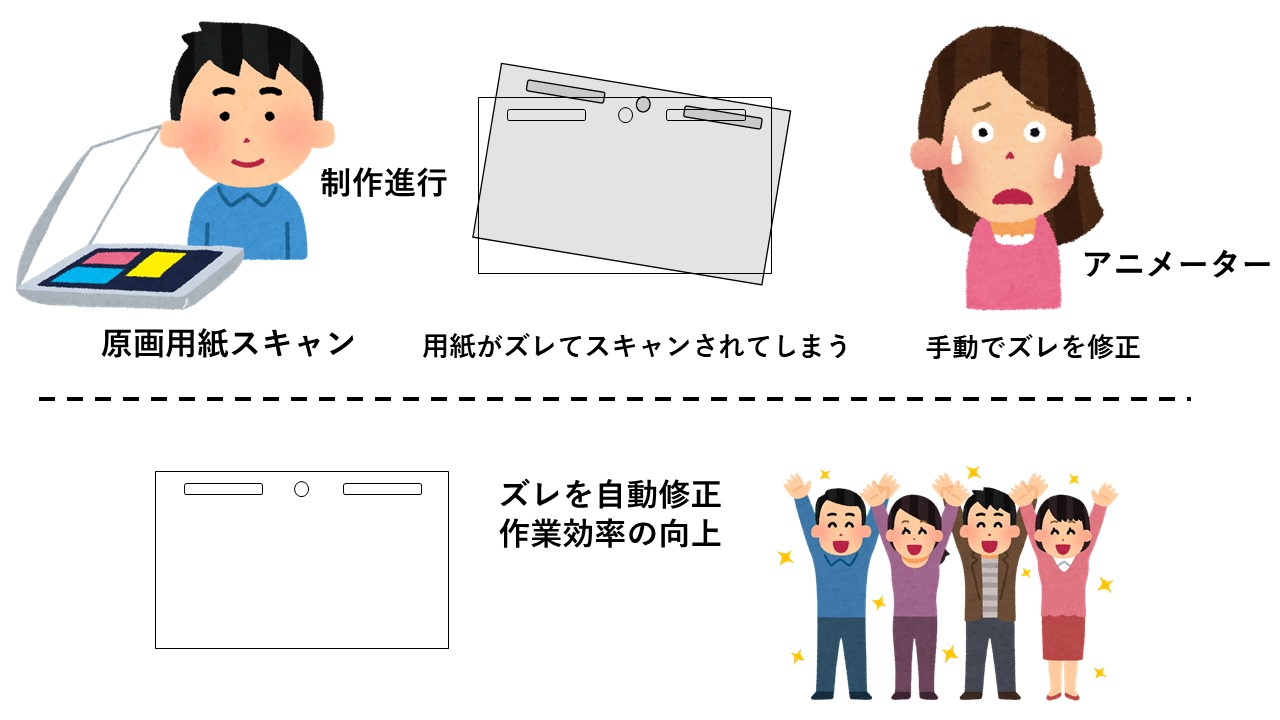
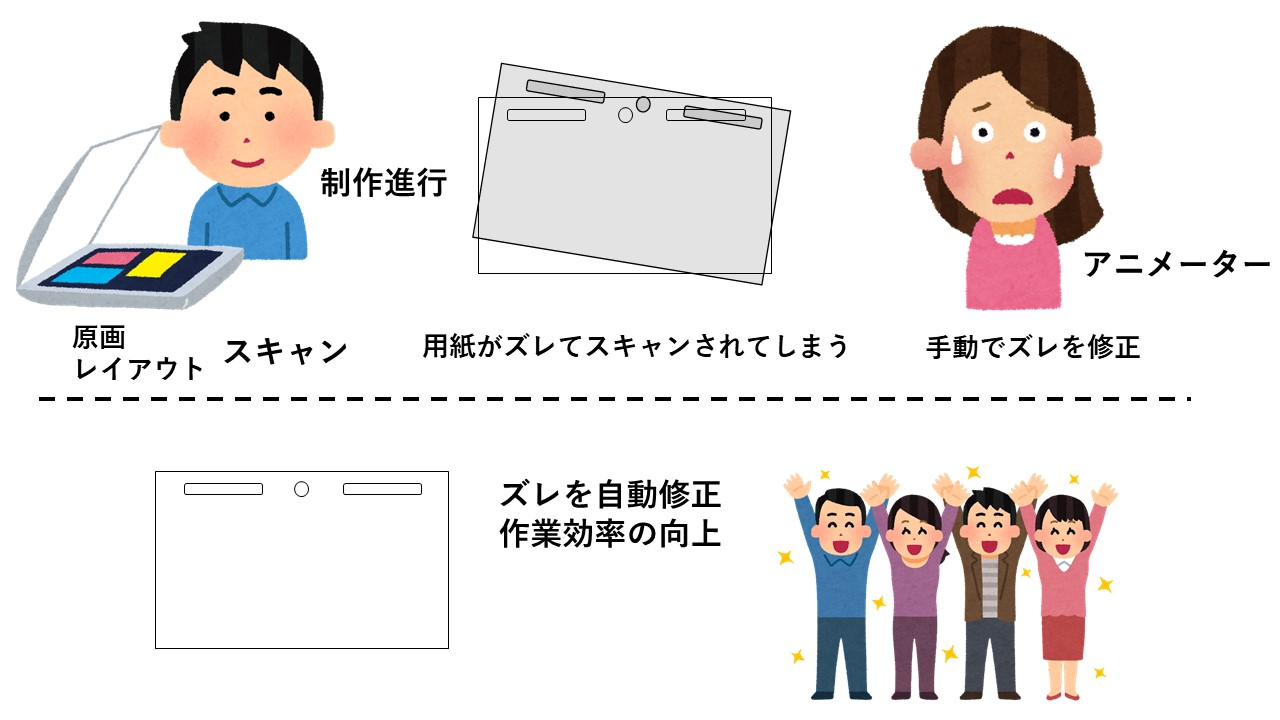
remake image
remake image & readme

Changed region(s): [[0.0625, 0.4278, 0.2812, 0.5194]]

diff --git a/README.md b/README.md
@@ -2,7 +2,7 @@
 
 <div align="center">
 
-スキャンされた原画のタップ穴・フレームを基準に原画の位置合わせを自動で行います
+スキャンされた原画やレイアウト用紙のタップ穴・フレームを基準に位置合わせを自動で行います
 
 [![license][license-badge]](LICENSE)
 [![version][version-badge]](https://keyframe-refiner.js.org)
